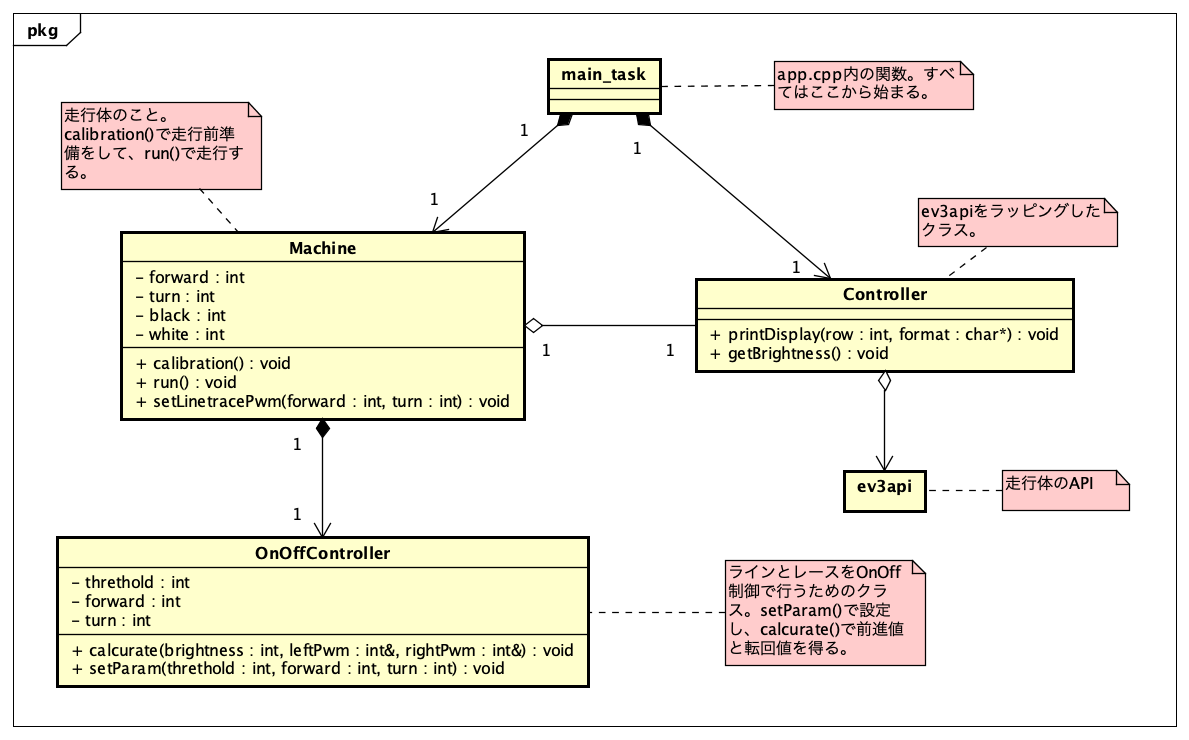
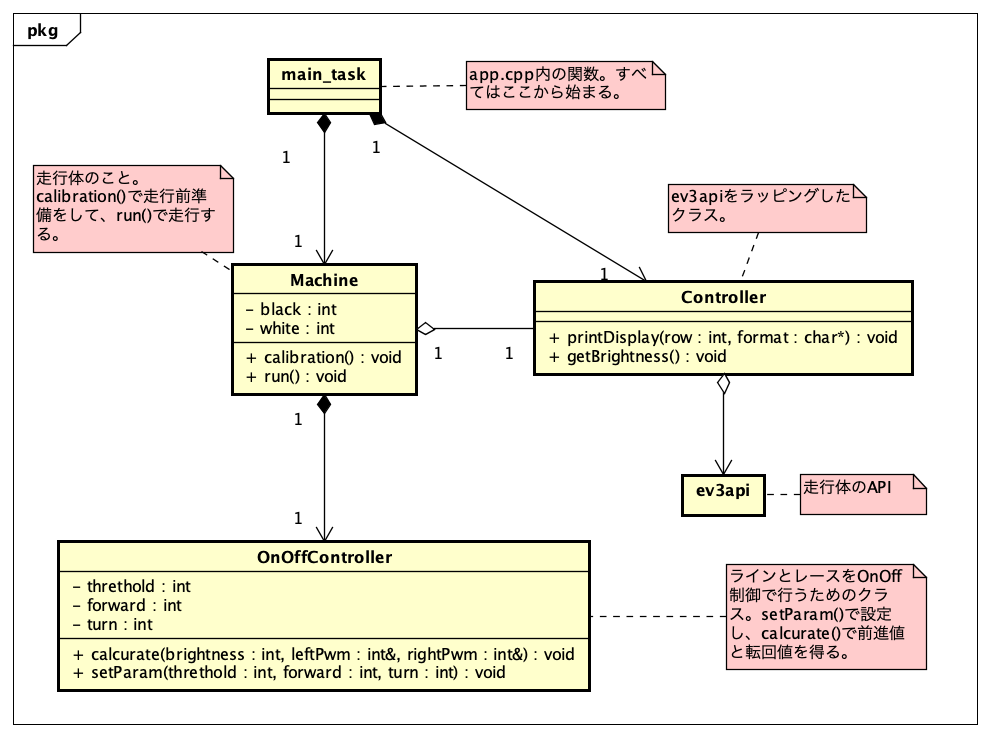
fix forward turn

diff --git a/apps/src/Machine.cpp b/apps/src/Machine.cpp
@@ -15,23 +15,7 @@ void Machine::calibration() {
   controller.speakerPlayTone(controller.noteFs6, 100);
 
   // forward値、turn値の設定
-  setLineTracePwm(30, 10);
-  onOffController.setParam((black + white) / 2, forward, turn);
-}
-
-void Machine::setLineTracePwm(const int& forward_, const int& turn_) {
-  forward = limitPwm(forward_);
-  turn = limitPwm(turn_);
-}
-
-int Machine::limitPwm(const int& power) {
-  if (power > 100) {
-    return 100;
-  } else if (power < -100) {
-    return -100;
-  }
-
-  return power;
+  onOffController.setParam((black + white) / 2, 30, 10);
 }
 
 void Machine::run() {

diff --git a/apps/include/Machine.h b/apps/include/Machine.h
@@ -15,23 +15,17 @@ class Machine {
   // 走行
   void run();
 
-  // セッター
-  void setLineTracePwm(const int& forward_, const int& turn_);
-
   // ゲッター
   int getBlack() { return black; }
   int getWhite() { return white; }
 
  private:
   int setBrightness(); // 色の光を決定する
-  int limitPwm(const int& power); // PWMの制限をする
 
   Controller controller;
   OnOffController onOffController;
   int black;  // 黒のBrightness
   int white; // 白のBrightness
-  int forward; // 前進値
-  int turn; // 回転値
 };
 
 #endif

diff --git a/apps/src/OnOffController.cpp b/apps/src/OnOffController.cpp
@@ -15,6 +15,16 @@ void OnOffController::calcurate(const int& brightness, int& leftPwm,
 void OnOffController::setParam(const int& threthold_, const int& forward_,
                                const int& turn_) {
   threthold = threthold_;
-  forward = forward_;
-  turn = turn_;
+  forward = limitPwm(forward_);
+  turn = limitPwm(turn_);
+}
+
+int OnOffController::limitPwm(const int& power) {
+  if (power > 100) {
+    return 100;
+  } else if (power < -100) {
+    return -100;
+  }
+
+  return power;
 }

diff --git a/apps/include/OnOffController.h b/apps/include/OnOffController.h
@@ -8,9 +8,11 @@ class OnOffController {
   void setParam(const int& threthold_, const int& forward_, const int& turn_);
 
  private:
-  int threthold;
-  int forward;
-  int turn;
+  int threthold; // OnOff閾値
+  int forward; // 前進値
+  int turn; // 回転値
+
+  int limitPwm(const int& power);
 };
 
 #endif
